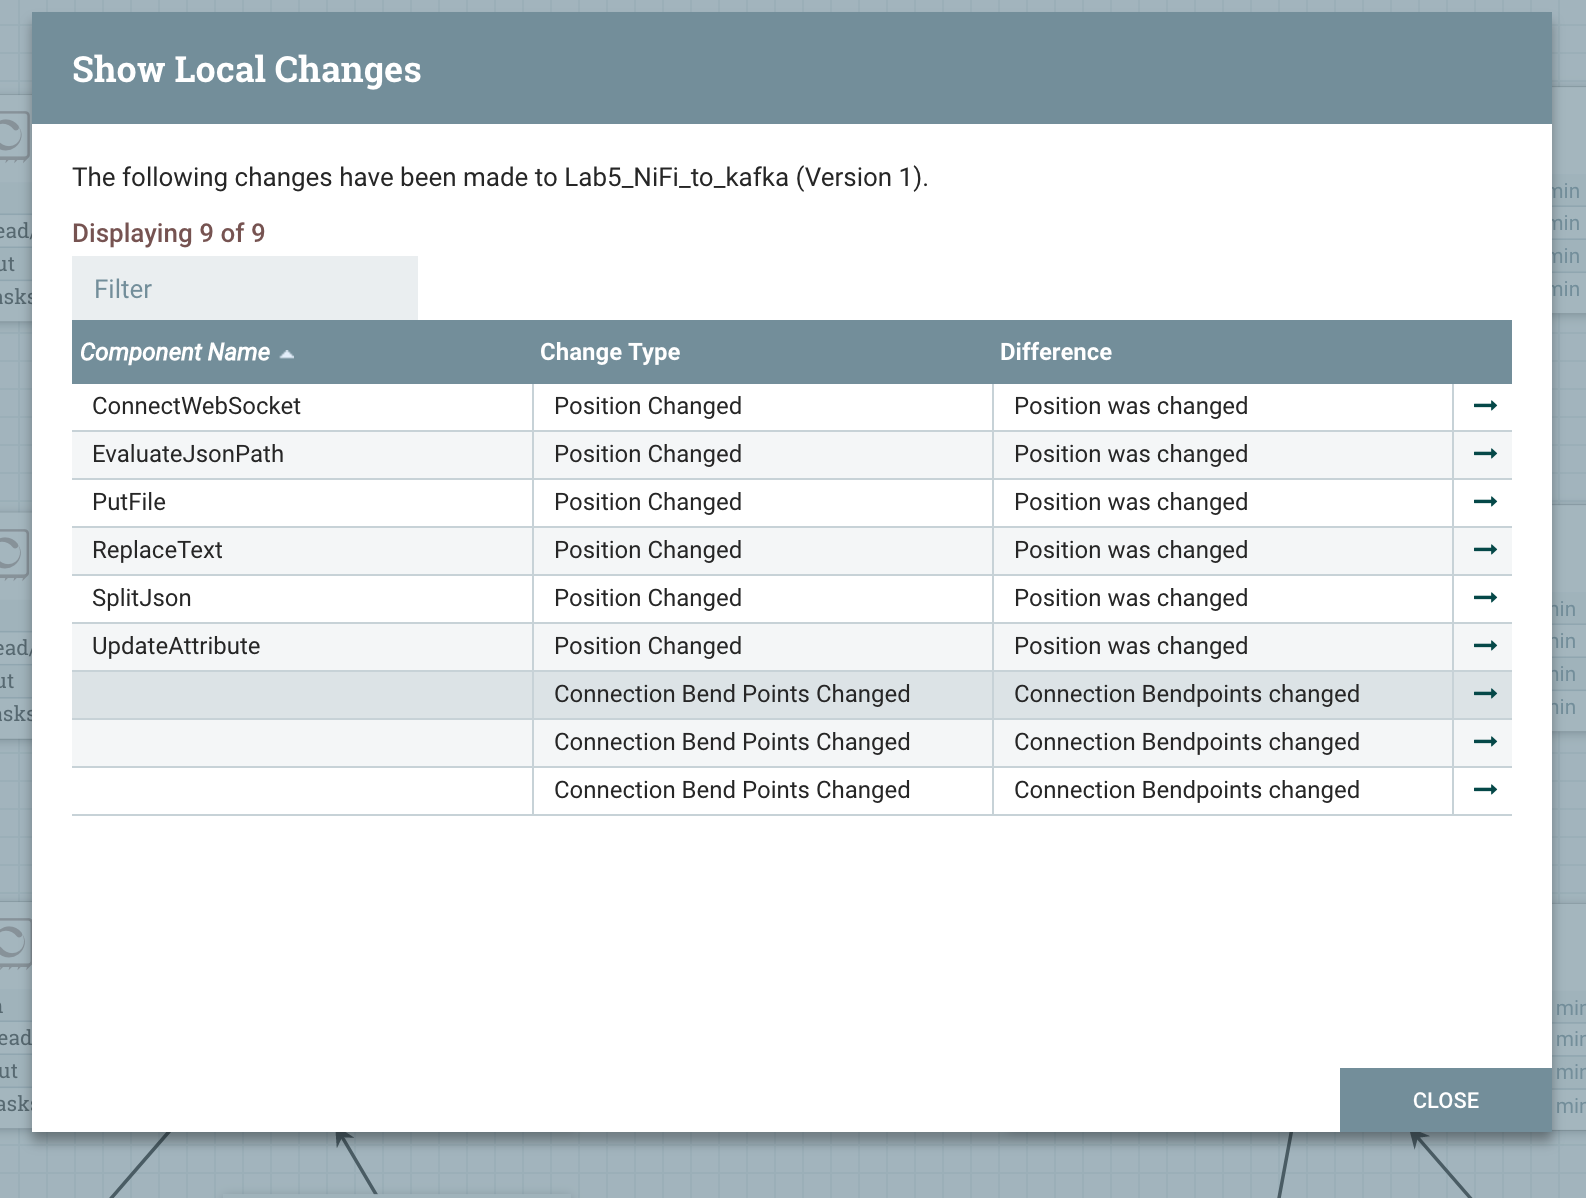
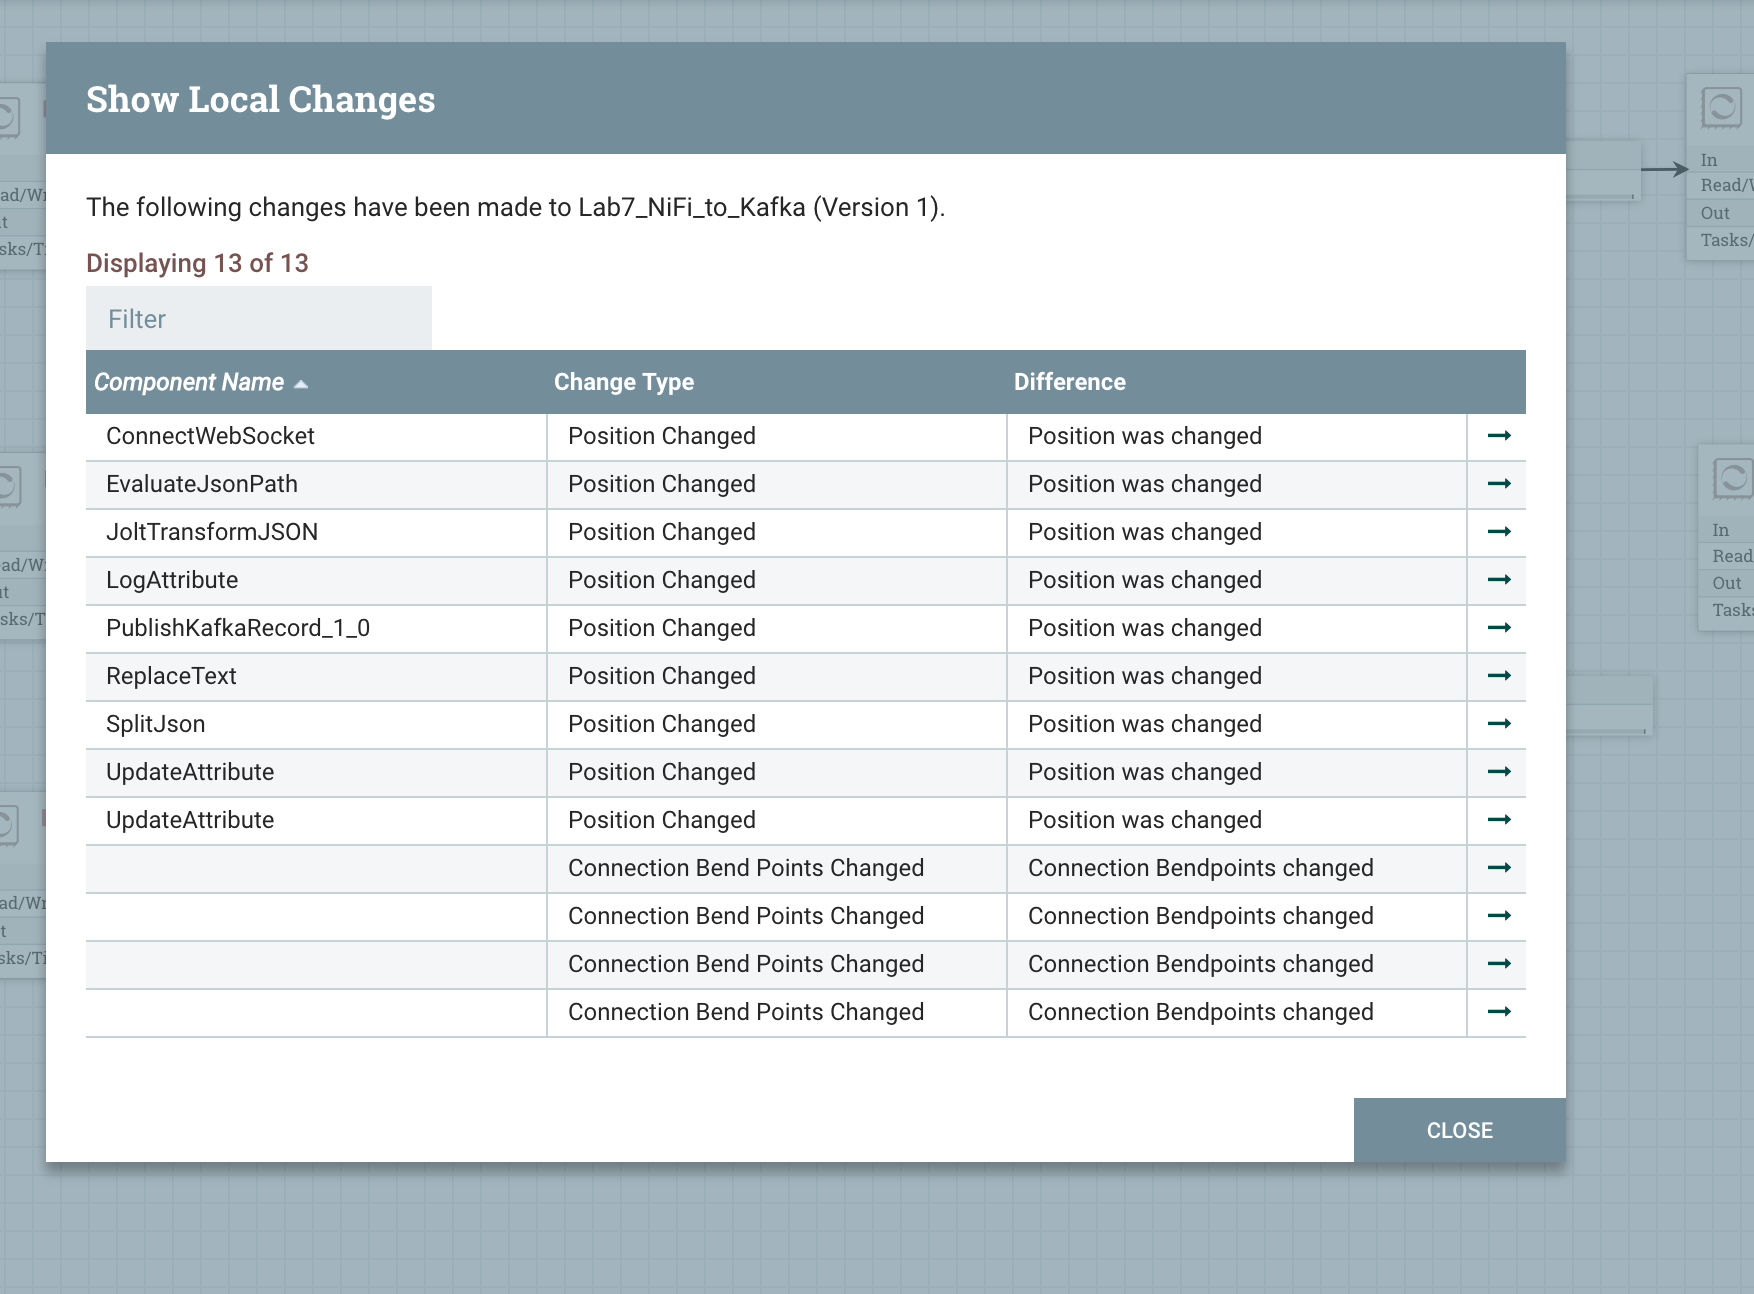
adding the Variable registry

Changed region(s): [[0.0, 0.0, 1.0, 0.9883], [0.0618, 0.9883, 0.0927, 1.0]]

diff --git a/README.md b/README.md
@@ -774,46 +774,6 @@ As you type messages in the producer window they should appear in the consumer w
 
 5. Messages should now appear in the consumer window.
 
-## Setting NiFi Registry:
-1. Open Nifi Registry from Ambari UI - 
-Ambari UI -> NiFi Registry -> NiFi Registry UI or visit ```<FQDN>:61080```
-
-![Image](https://github.com/dhananjaymehta/HDF-Workshop/blob/master/img/Lab6_NR_01.png)
-
-2. Create a Bucket to do version control on NiFi Registry UI. 
-
-![Image](https://github.com/dhananjaymehta/HDF-Workshop/blob/master/img/Lab6_NR_2.png)
-
-3. Go to NiFi ```<FQDN>:9090```, for the NiFi flow created create a processor group by selecting all the processors (using shift key) and then right click create processor group. 
-
-4. Right click on processor group to select Version Control.
-
-![Image](https://github.com/dhananjaymehta/HDF-Workshop/blob/master/img/Lab6_NR_3.png)
-
-5. The bucket created in NiFi Registry should automatically appear if it’s in the same cluster
-
-![Image](https://github.com/dhananjaymehta/HDF-Workshop/blob/master/img/Lab6_NR_4.png)
-
-
-6. Make changes to canvas such as position or time (even position change of processor is tracked). 
-
-![Image](https://github.com/dhananjaymehta/HDF-Workshop/blob/master/img/Lab6_NR_5.png)
-
-
-7. You can see the changes that were made by selecting “Show Local Changes”
-
-![Image](https://github.com/dhananjaymehta/HDF-Workshop/blob/master/img/Lab6_NR_6.png)
-
-
-8. Decide to Commit or Revert any changes that are made. If you decide to save the changes, comment before you commit about the changes. Note that you can configure to commit these changes to Github as well.
-
-![Image](https://github.com/dhananjaymehta/HDF-Workshop/blob/master/img/Lab6_NR_7.png)
-
-9. The pushed changes will appear in Nifi Registry 
-
-![Image](https://github.com/dhananjaymehta/HDF-Workshop/blob/master/img/Lab6_NR_8.png)
-
-
 ------------------
 
 # Lab 6
@@ -962,6 +922,69 @@ Ambari UI -> NiFi Registry -> NiFi Registry UI or visit ```<FQDN>:61080```
 ------------------
 
 # Lab 7
+
+## Variables
+Nifi >1.4 provides UI based variable registry to help simplify the configuration management of flows across different environments.  
+
+Step 1: On the processor group Lab2 select "variables op"
+![Image](https://github.com/dhananjaymehta/HDF-Workshop/blob/master/img/Lab6_VR_01.png)
+
+Step 2: Using + symbol add new variable and add corresponding value to the variable. In this example we are adding a variable for Kafka topic.
+
+![Image](https://github.com/dhananjaymehta/HDF-Workshop/blob/master/img/Lab6_VR_02.png)
+![Image](https://github.com/dhananjaymehta/HDF-Workshop/blob/master/img/Lab6_VR_03.png)
+
+Step 3: Apply the variable and close. 
+![Image](https://github.com/dhananjaymehta/HDF-Workshop/blob/master/img/Lab6_VR_04.png)
+
+Step 4: Go to PublishKafkaRecord_1_0 processor and update the ```Topic Name```
+![Image](https://github.com/dhananjaymehta/HDF-Workshop/blob/master/img/Lab6_VR_05.png)
+
+## NiFi Registry:
+For this lab we are going to set up NiFi registry and use variables. NiFi registry provides a central location for storage and management of shared resources. It allows storing and managing versioned flows. 
+
+1. Open Nifi Registry from Ambari UI - 
+Ambari UI -> NiFi Registry -> NiFi Registry UI or visit ```<FQDN>:61080```
+
+![Image](https://github.com/dhananjaymehta/HDF-Workshop/blob/master/img/Lab6_NR_01.png)
+
+2. Create a Bucket to do version control on NiFi Registry UI. 
+
+![Image](https://github.com/dhananjaymehta/HDF-Workshop/blob/master/img/Lab6_NR_2.png)
+![Image](https://github.com/dhananjaymehta/HDF-Workshop/blob/master/img/Lab6_NR_0Lab6_NR_62.png)
+
+3. Go to NiFi ```<FQDN>:9090```, for the NiFi flow created create a processor group by selecting all the processors (using shift key) and then right click create processor group. 
+
+4. Right click on processor group to select Version Control.
+
+![Image](https://github.com/dhananjaymehta/HDF-Workshop/blob/master/img/Lab6_NR_3.png)
+
+5. The bucket created in NiFi Registry should automatically appear if it’s in the same cluster
+
+![Image](https://github.com/dhananjaymehta/HDF-Workshop/blob/master/img/Lab6_NR_4.png)
+
+
+6. Make changes to canvas such as position or time (even position change of processor is tracked). 
+
+![Image](https://github.com/dhananjaymehta/HDF-Workshop/blob/master/img/Lab6_NR_5.png)
+
+
+7. You can see the changes that were made by selecting “Show Local Changes”
+
+![Image](https://github.com/dhananjaymehta/HDF-Workshop/blob/master/img/Lab6_NR_6.png)
+
+
+8. Decide to Commit or Revert any changes that are made. If you decide to save the changes, comment before you commit about the changes. Note that you can configure to commit these changes to Github as well.
+
+![Image](https://github.com/dhananjaymehta/HDF-Workshop/blob/master/img/Lab6_NR_7.png)
+
+9. The pushed changes will appear in Nifi Registry 
+
+![Image](https://github.com/dhananjaymehta/HDF-Workshop/blob/master/img/Lab6_NR_8.png)
+
+------------------
+
+# Lab 8
 
 ## Real-time Analytics with SAM
 
